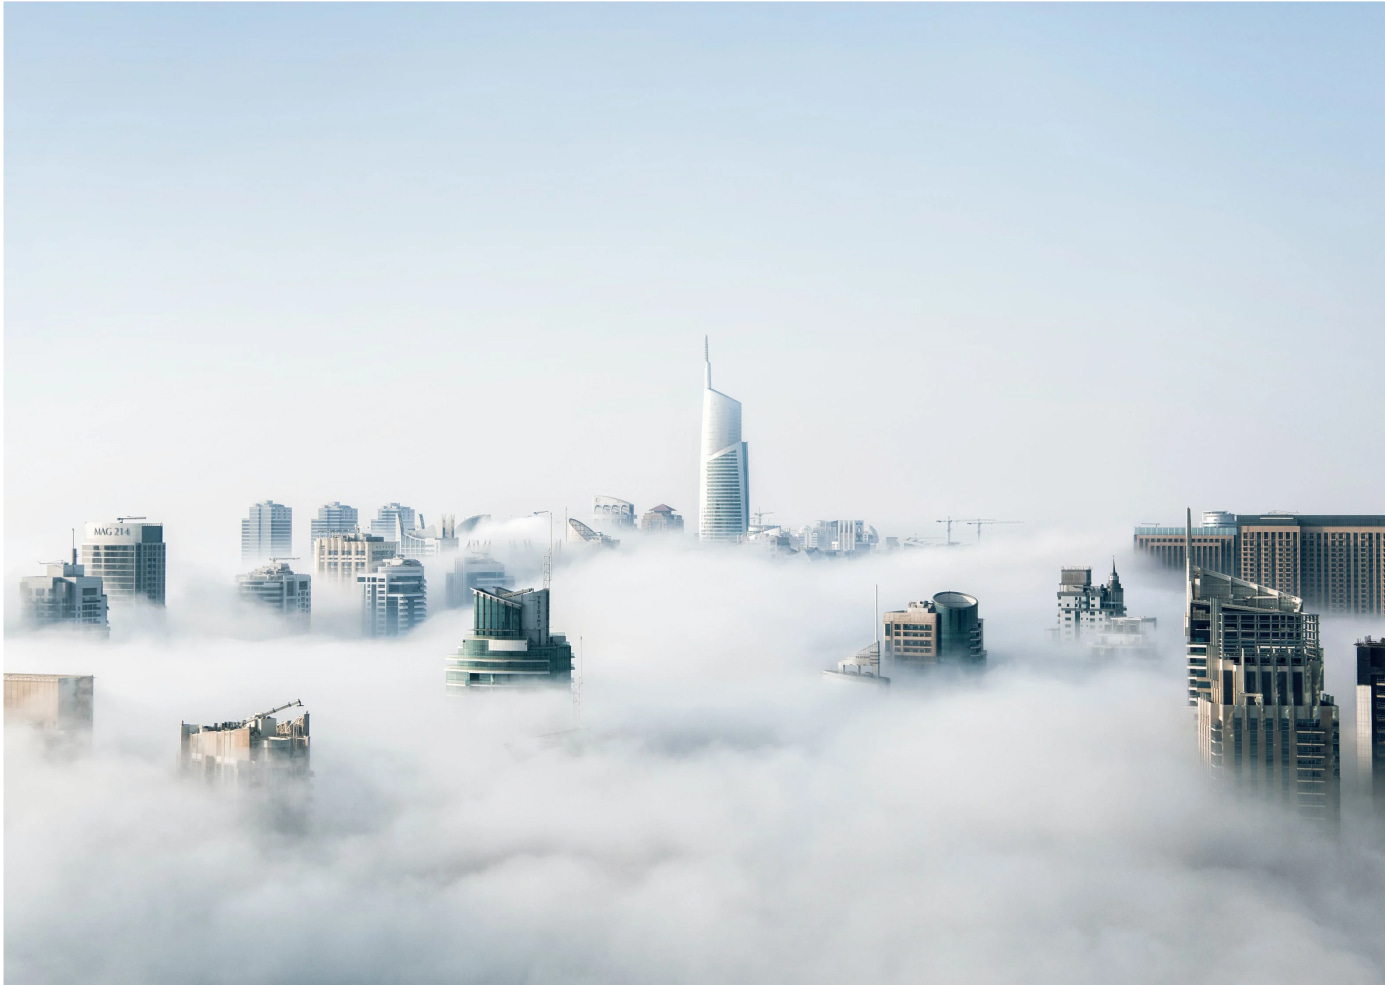
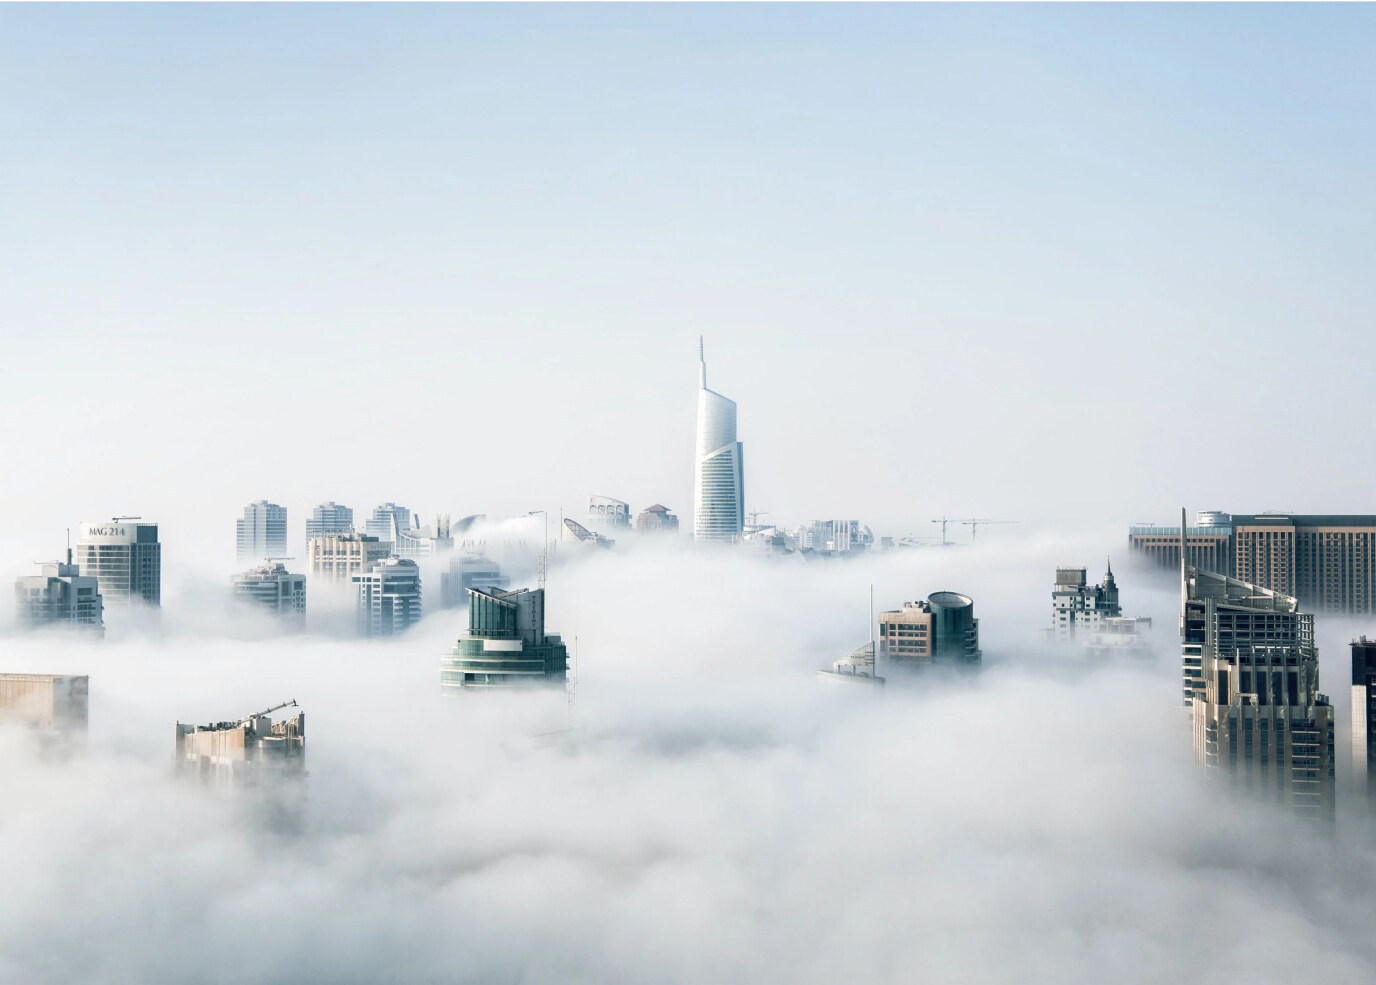
fix ios

diff --git a/src/styles/globals.scss b/src/styles/globals.scss
@@ -11,7 +11,6 @@
 }
 
 html {
-  background-color: var(--color-black);
   min-height: 100%;
 }
 
@@ -28,10 +27,10 @@ body {
   background-repeat: no-repeat;
   min-height: 100%;
 
-  @include media-tablet {
+  @include media-mobile {
     background-image: url('../../public/images/sky-mobile.jpg');
-    background-position: right center;
-    background-size: auto 100%;
+    padding-left: env(safe-area-inset-left);
+    padding-right: env(safe-area-inset-right);
   }
 }
 

diff --git a/public/index.html b/public/index.html
@@ -2,8 +2,8 @@
 <html lang="en">
   <head>
     <meta charset="utf-8" />
-    <meta name="viewport" content="width=device-width, initial-scale=1" />
-    <meta name="theme-color" content="#000000" />
+    <meta name="viewport" content="width=device-width, initial-scale=1, viewport-fit=cover, shrink-to-fit=no" />
+    <meta name="theme-color" content="#ffffff" />
     <meta
       name="description"
       content="Web site created using create-react-app"

diff --git a/src/components/Checkbox/Checkbox.tsx b/src/components/Checkbox/Checkbox.tsx
@@ -30,7 +30,6 @@ const Checkbox = React.forwardRef<HTMLInputElement, InputPropsTypes>(
 
     return (
       <div className={classes}>
-        <label htmlFor={id} />
         <input type="checkbox" name={name} id={id} ref={ref} {...props} />
         <div className={s.checkBlock}>
           <CheckboxIcon />

diff --git a/src/components/Main/Main.module.scss b/src/components/Main/Main.module.scss
@@ -133,6 +133,7 @@
 
 .submit {
   min-width: 114px;
+  margin-left: var(--gap8);
 
   span {
     font-weight: 700;
